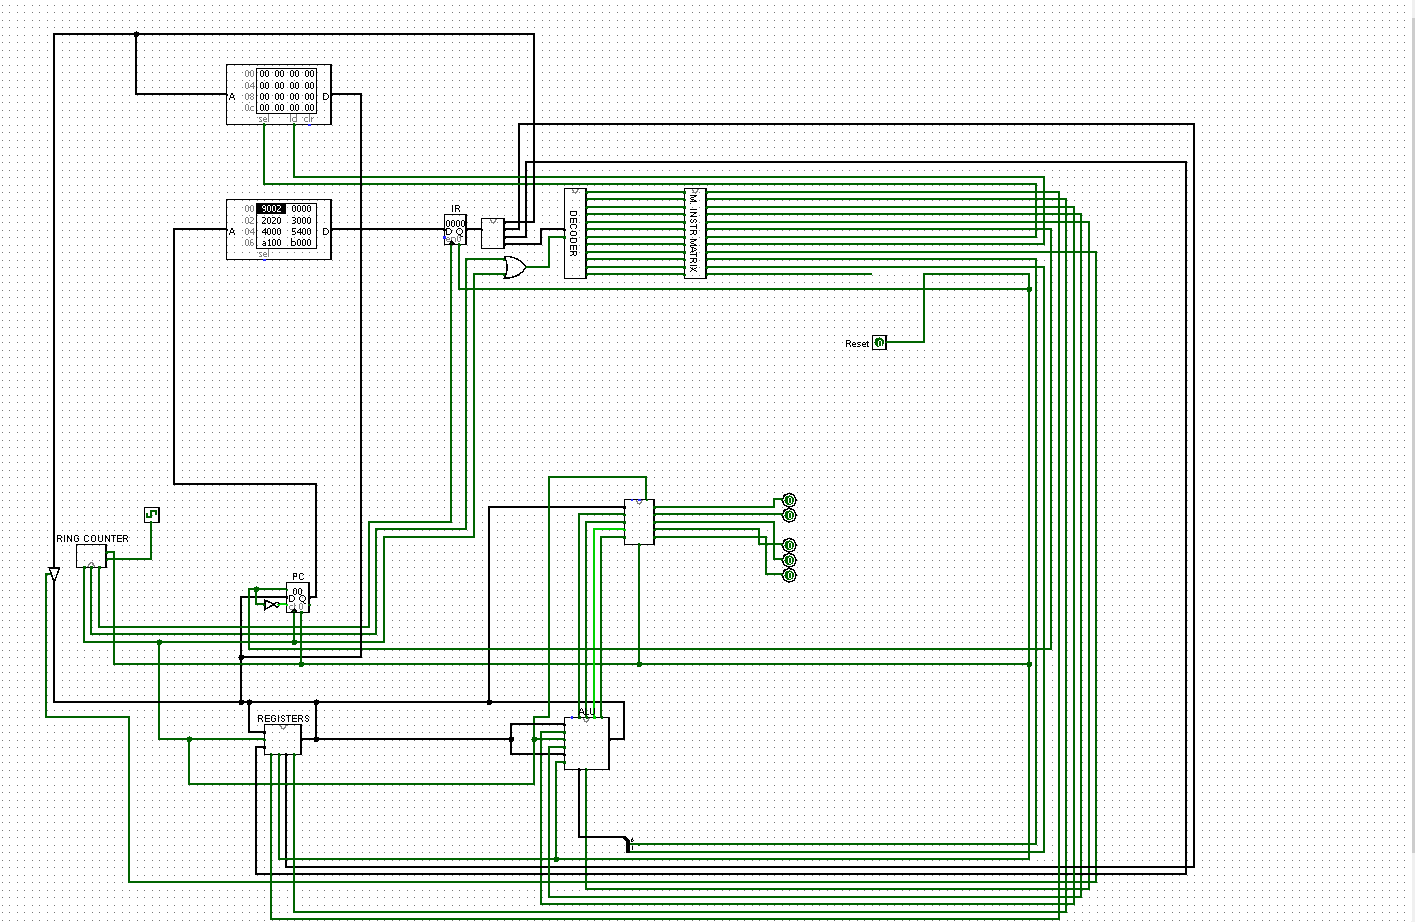
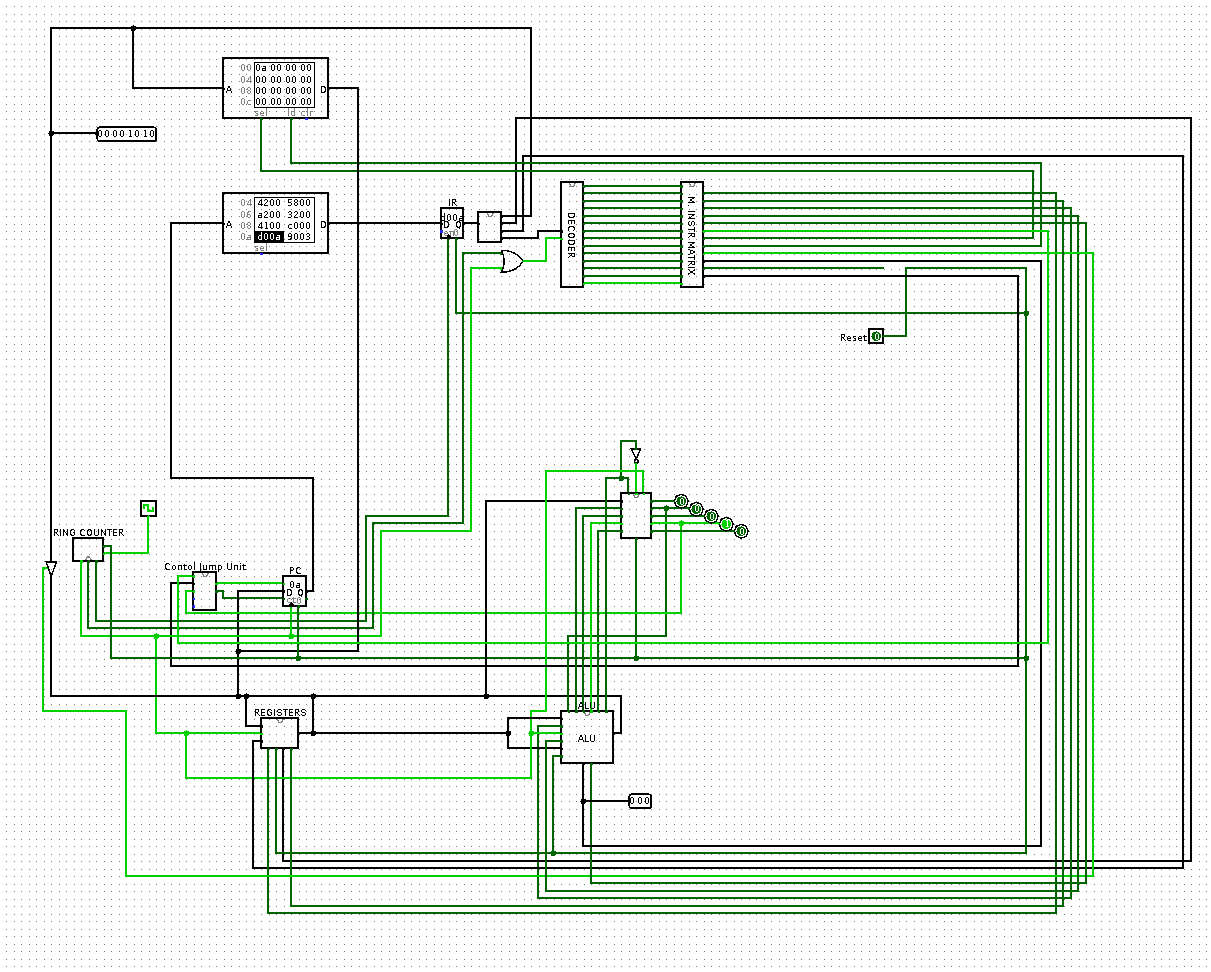
Logisim: add instruction jumpeq in readme and new image.

Changed region(s): [[0.0306, 0.0, 1.0, 1.0], [0.9166, 0.0911, 0.9472, 0.1215]]

diff --git a/Logisim_Designs/Readme.md b/Logisim_Designs/Readme.md
@@ -70,6 +70,7 @@ Cmp -> 12 (C) : signed compare
 ### Jump
 
 Jump ADDR -> 9
+Jumpeq ADDR -> 13 (D)
 
 ### Memory
 
@@ -88,7 +89,15 @@ CS7 => Enable Ram Access \
 CS8 => Read Ram (1) / Write Ram (0) \
 CS9 => Write Immed Value \
 CS10 => Select Alu Operations (3bits) \
-CS11 => Reset Cpu
+    000 -> Add \
+    001 -> Xor \
+    010 -> Or \
+    011 -> And \
+    100 -> CMP \
+CS11 => Reset Cpu \
+CS12 => Jump Type (2bits)
+    00 -> Jump \
+    01 -> Jumpeq \
 
 ## Tests
 
